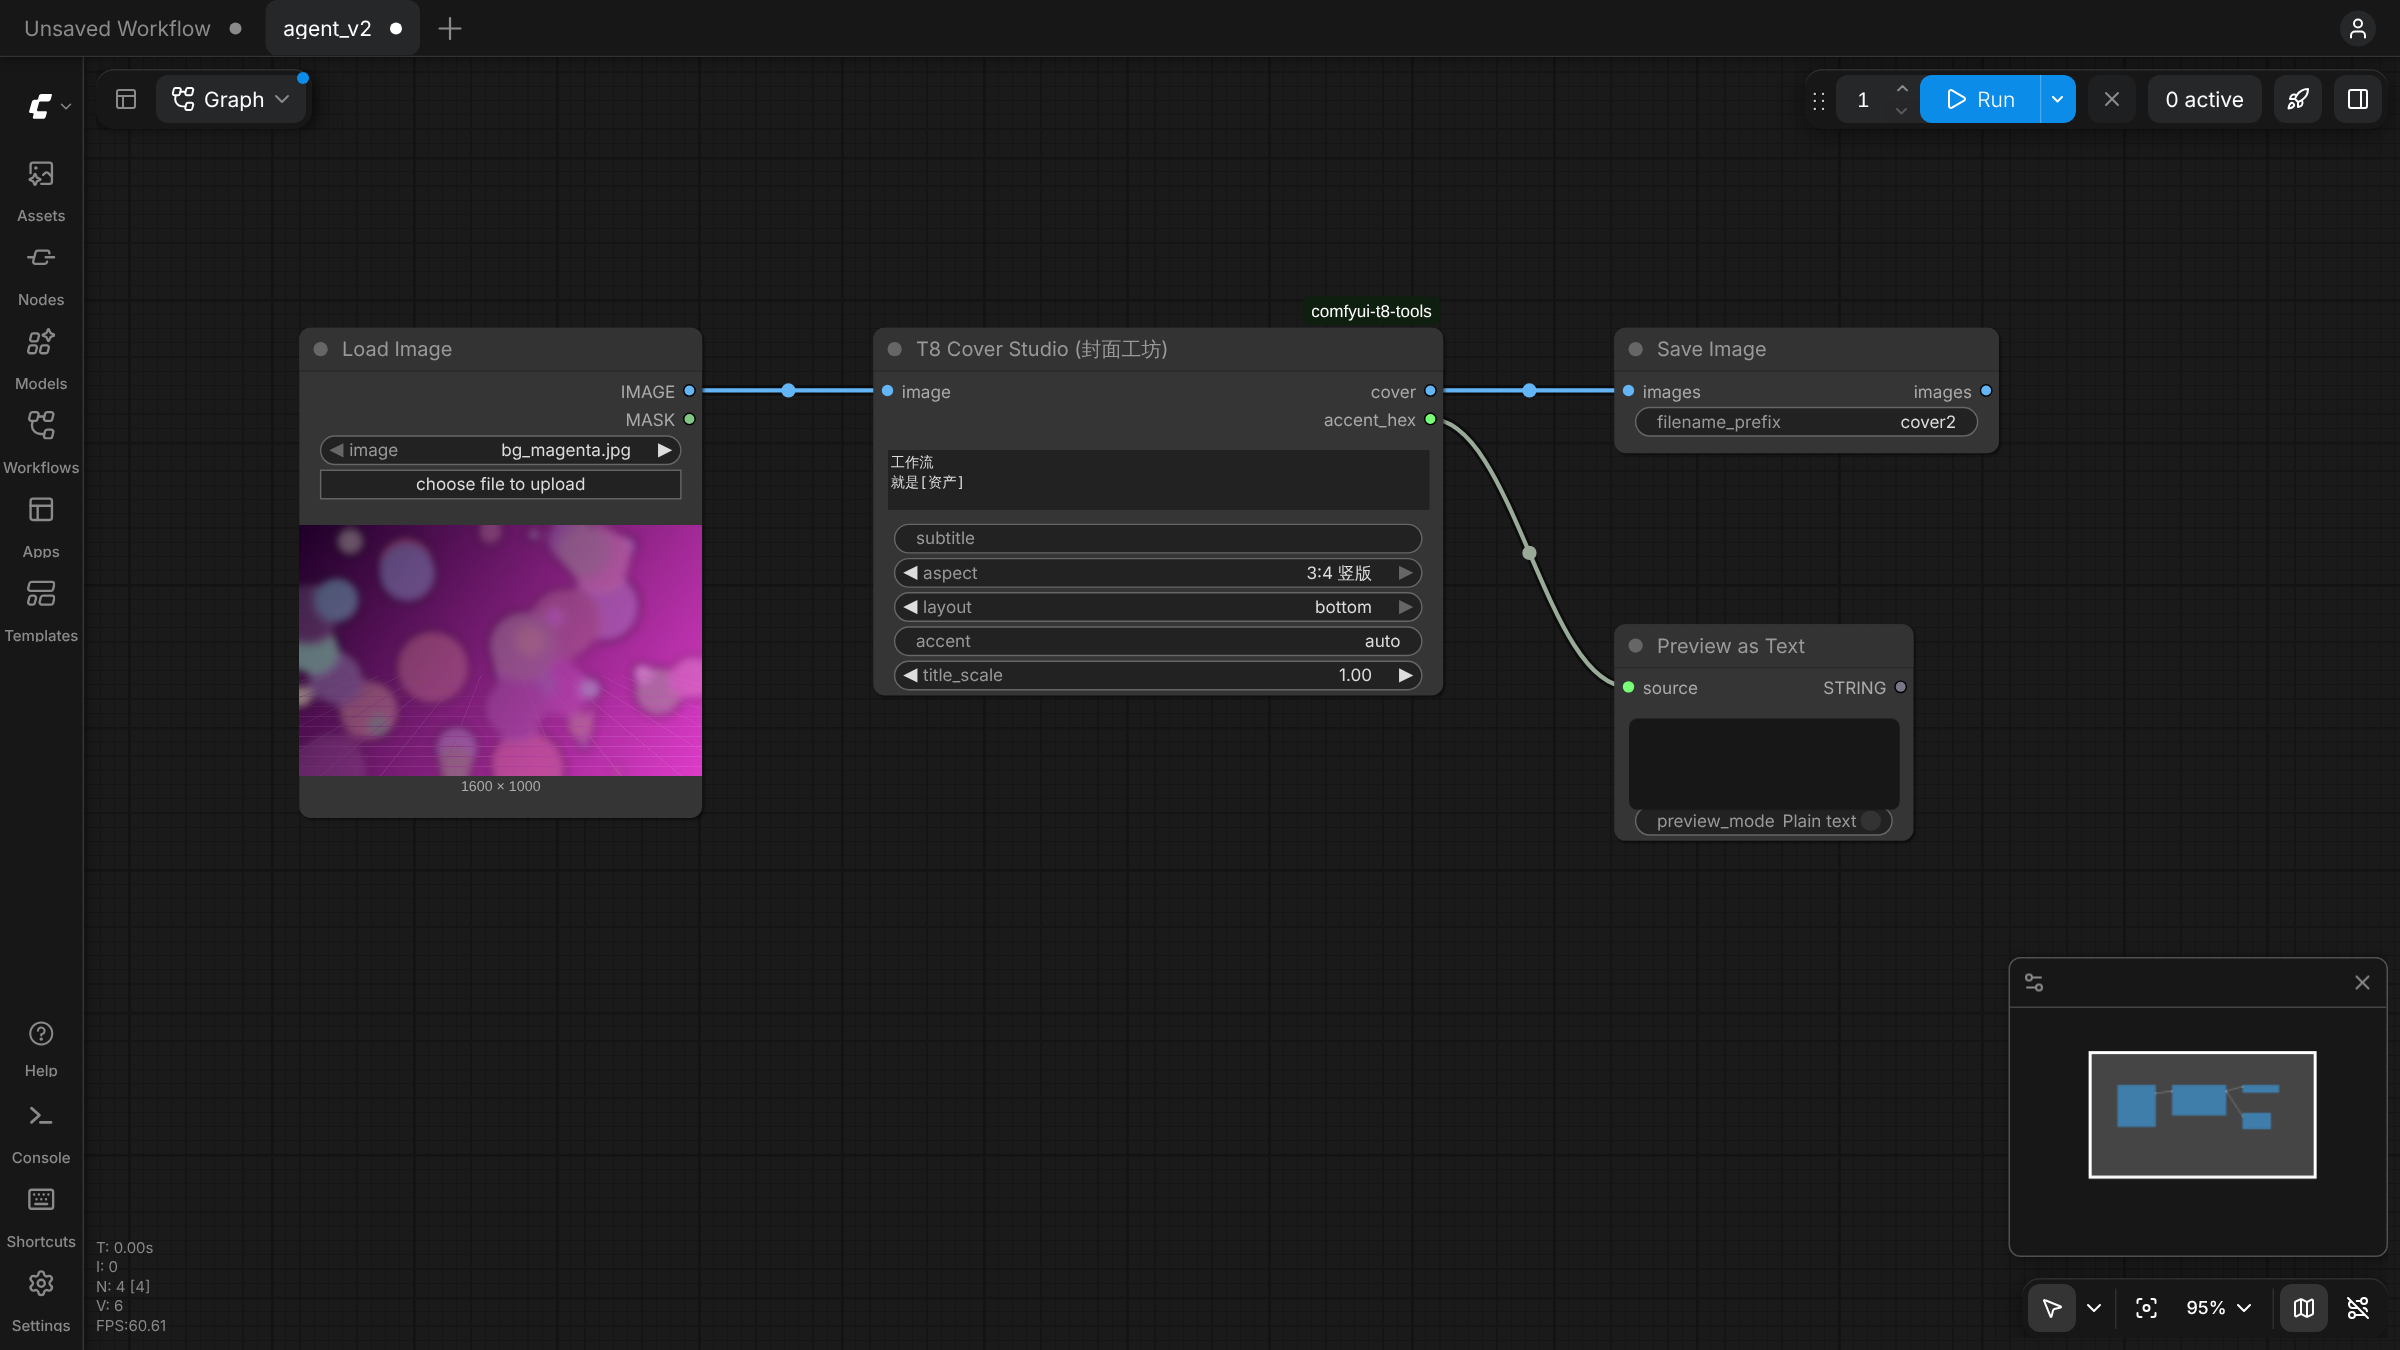
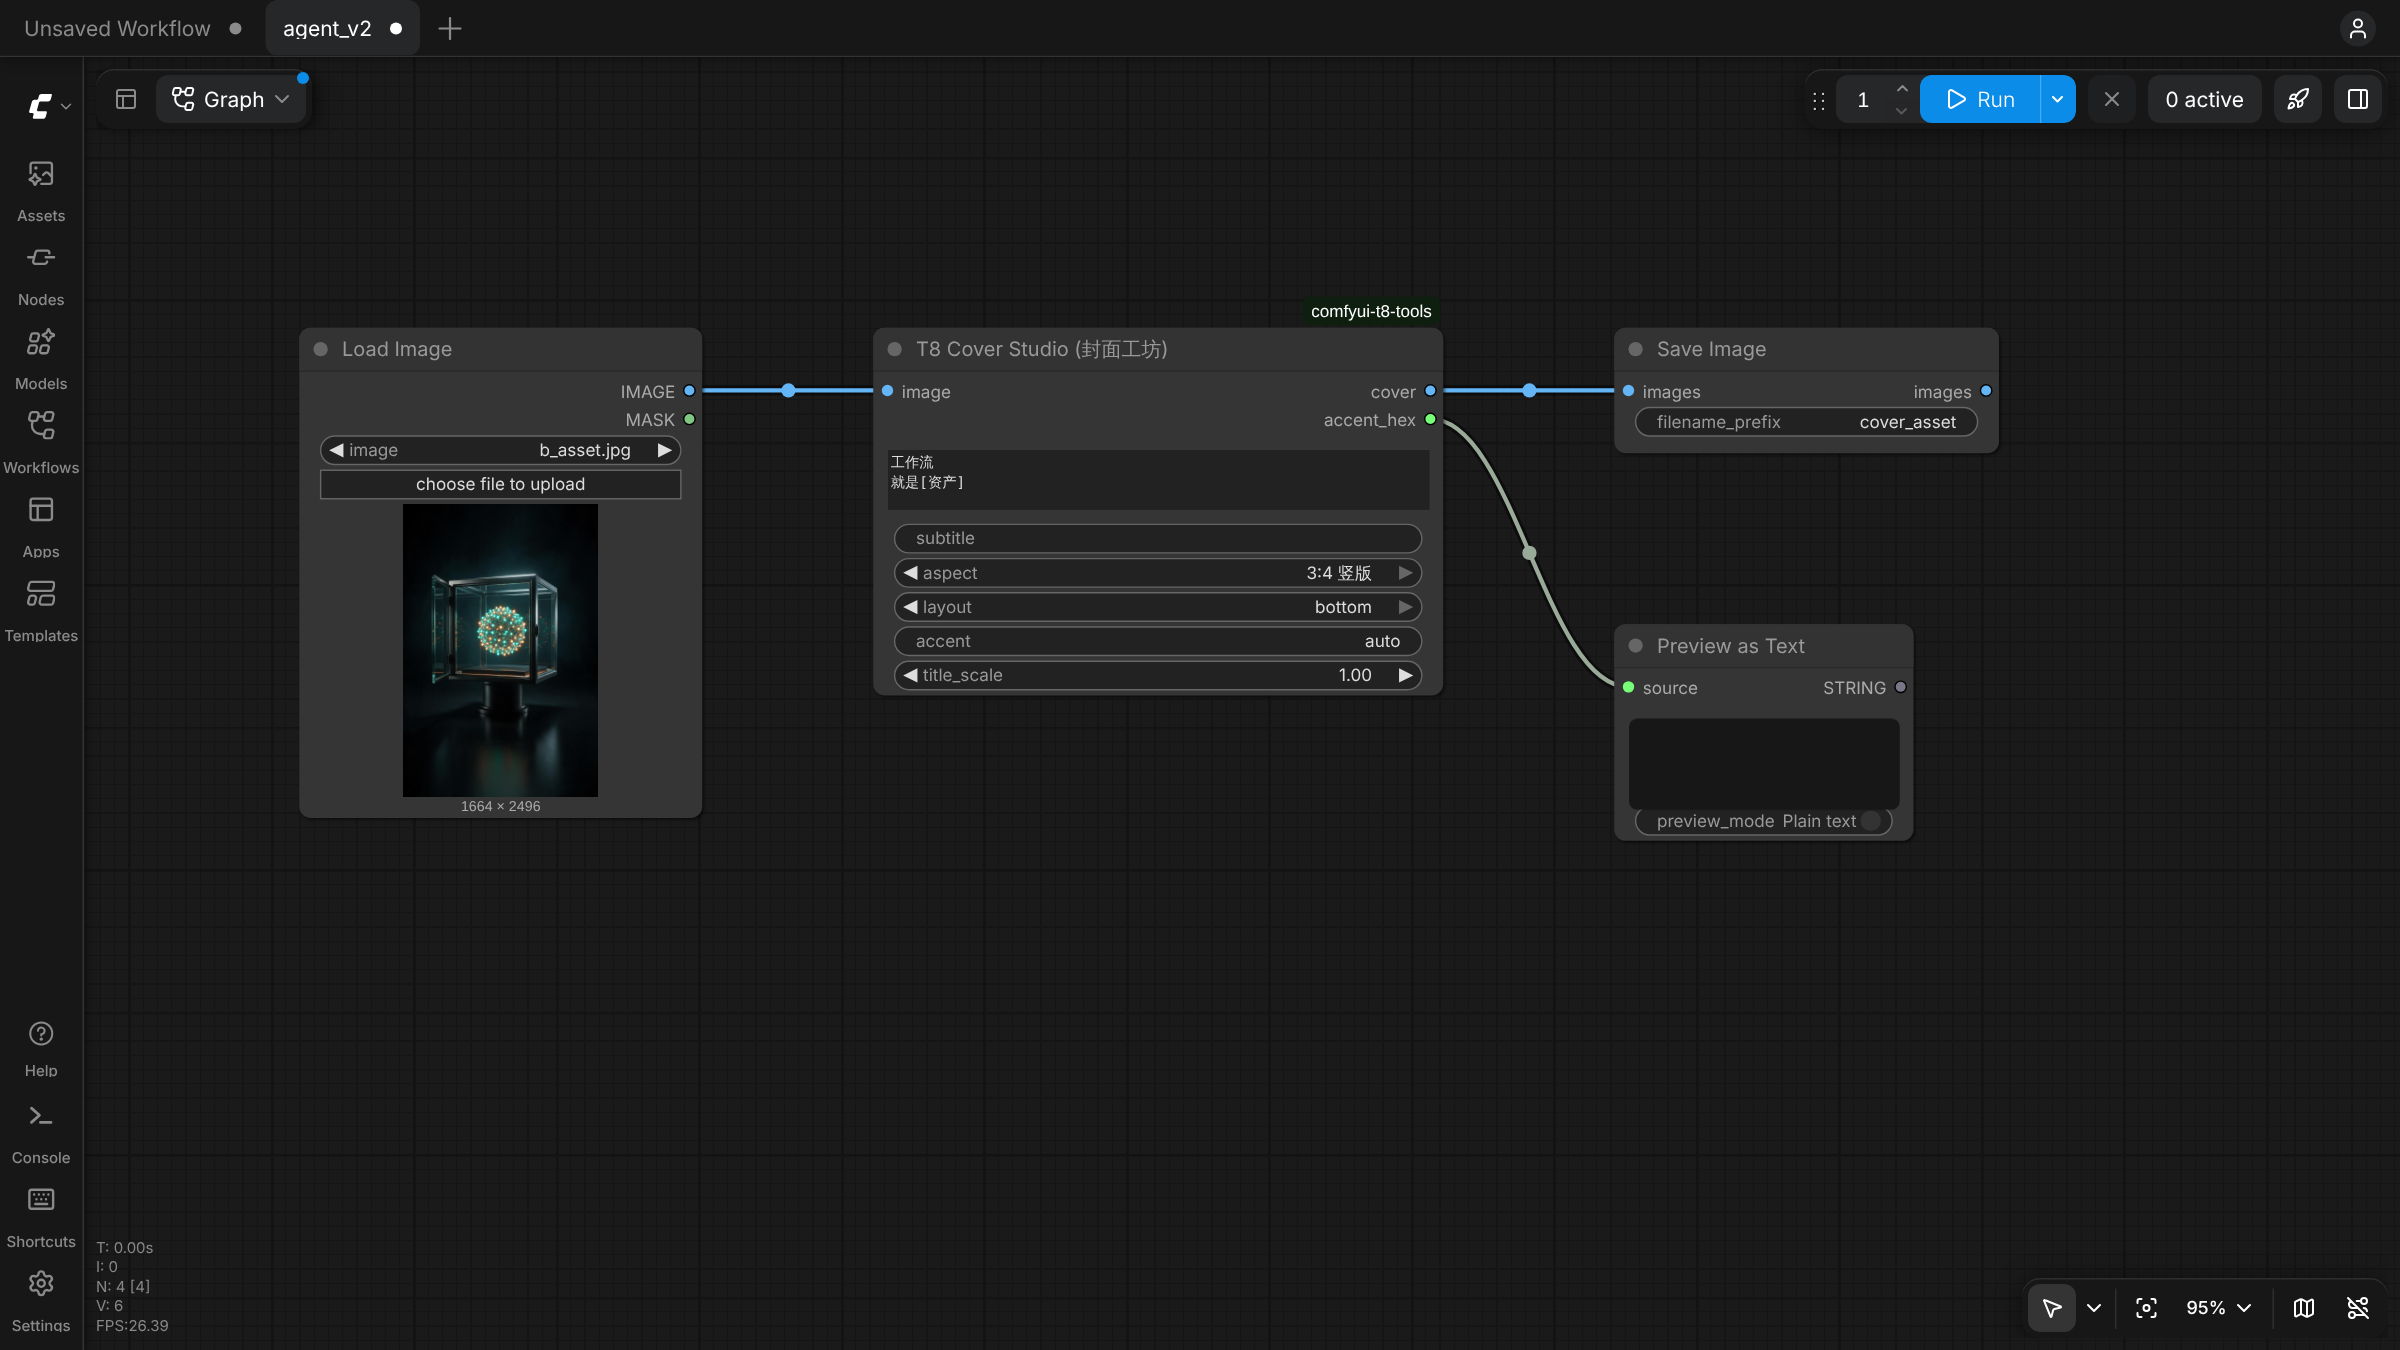
Layout-aware smart crop; new example covers
Claude-Session: https://claude.ai/code/session_011QWwYvwXEGi9pJi1Y6KYj2

diff --git a/cover.py b/cover.py
@@ -29,15 +29,18 @@ def _body_font(size):
     return ImageFont.truetype(hits[0], size) if hits else _display_font(size)
 
 
-def _smart_crop(im, W, H):
-    """crop to W:H, sliding the window toward the region with the most edges (usually the subject)"""
+def _smart_crop(im, W, H, layout="left"):
+    """crop to W:H; keep the busy region (the subject) out of the zone the title will cover"""
     s = max(W / im.width, H / im.height)
     im = im.resize((round(im.width * s), round(im.height * s)), Image.LANCZOS)
     e = np.asarray(im.convert("L").filter(ImageFilter.FIND_EDGES), np.float32)
-    best, bx, by = -1, 0, 0
+    best, bx, by = -1e9, 0, 0
     for x in range(0, im.width - W + 1, max(1, (im.width - W) // 24 or 1)):
         for y in range(0, im.height - H + 1, max(1, (im.height - H) // 24 or 1)):
-            v = e[y:y + H, x:x + W].mean()
+            c = e[y:y + H, x:x + W]
+            text, subj = {"left": (c[:, :W // 2], c[:, W // 2:]), "right": (c[:, W // 2:], c[:, :W // 2]),
+                          "bottom": (c[H * 11 // 20:], c[:H * 11 // 20])}[layout]
+            v = subj.mean() - 0.7 * text.mean()
             if v > best: best, bx, by = v, x, y
     return im.crop((bx, by, bx + W, by + H))
 
@@ -91,7 +94,7 @@ class T8CoverStudio(IO.ComfyNode):
     def execute(cls, image, title, subtitle, aspect, layout, accent, title_scale) -> IO.NodeOutput:
         W, H = ASPECTS[aspect]
         src = Image.fromarray((image[0].cpu().numpy() * 255).clip(0, 255).astype(np.uint8)).convert("RGB")
-        im = _smart_crop(src, W, H).convert("RGBA")
+        im = _smart_crop(src, W, H, layout).convert("RGBA")
         acc = _hex(accent) or _auto_accent(src)
 
         # scrim on the text side so the title is always readable

diff --git a/README.md b/README.md
@@ -8,7 +8,7 @@ T8star 视频《ComfyUI 过时了吗？》中演示的自定义节点：用 Clau
 
 | 节点 | 作用 |
 |---|---|
-| **T8 Cover Studio（封面工坊）** | 生成图 + 标题 → 成品封面。智能裁切（自动避开空白、保留主体）、可读性遮罩、从图里自动取主题色、大字标题（`[方括号]` 里的词高亮）、副标题胶囊；支持 16:10（B 站）、16:9（YouTube）、3:4 竖版；左 / 右 / 底三种版式 |
+| **T8 Cover Studio（封面工坊）** | 生成图 + 标题 → 成品封面。智能裁切（按版式把主体留在标题之外）、可读性遮罩、从图里自动取主题色、大字标题（`[方括号]` 里的词高亮）、副标题胶囊；支持 16:10（B 站）、16:9（YouTube）、3:4 竖版；左 / 右 / 底三种版式 |
 | T8 Text Watermark | 给图片加文字水印（支持中文），位置、字号、透明度可调 |
 | T8 Color Palette | 提取图片主色 → 色卡图 + HEX 字符串 |
 
@@ -33,10 +33,10 @@ git clone https://github.com/T8mars/comfyui-test comfyui-t8-tools
 - `title_scale`：标题整体缩放
 - 输出 `cover`（图片）和 `accent_hex`（实际使用的主题色）
 
-示例工作流：`examples/cover_workflow_api.json`（API 格式，可直接拖进 ComfyUI；示例底图 `examples/bg_magenta.jpg` 先放进 `ComfyUI/input/`）。
+示例工作流：`examples/cover_workflow_api.json`（API 格式，可直接拖进 ComfyUI；示例底图 `examples/bg_asset.jpg` 先放进 `ComfyUI/input/`）。
 
 ## 字体与许可
 
 - 标题字体：得意黑 Smiley Sans（SIL OFL 1.1），见 `fonts/README_LICENSES.txt`
 - 副标题使用系统中文字体（Noto Sans CJK / 微软雅黑），找不到时退回标题字体
-- 示例图片均为程序生成，无第三方素材
+- 示例底图由博主用 AI 生成（Seedream），无第三方素材
